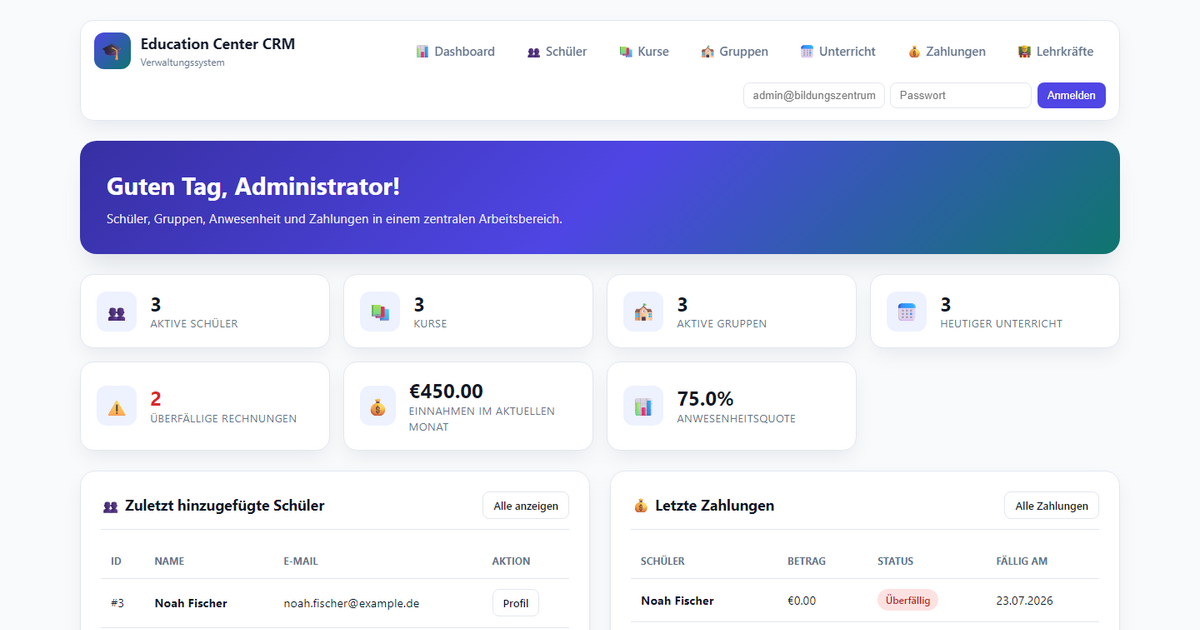
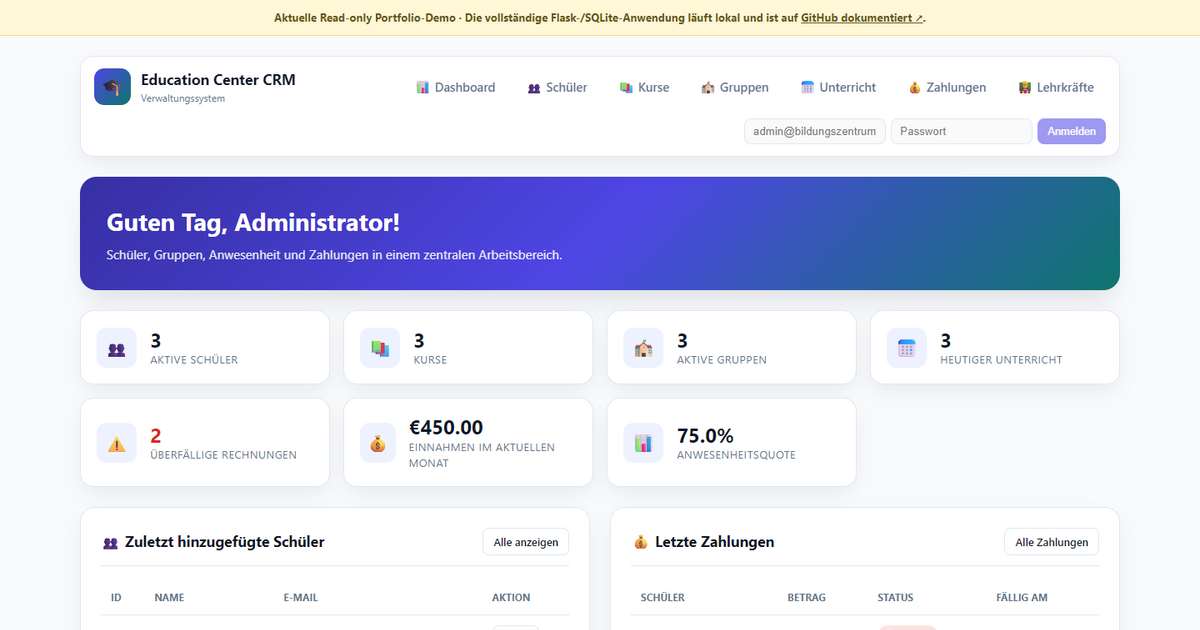
Finalize portfolio v1.0

diff --git a/index.html b/index.html
@@ -4,7 +4,10 @@
   <meta charset="utf-8">
   <meta name="viewport" content="width=device-width, initial-scale=1">
   <meta name="description" content="Sandro Abashishvili entwickelt Webanwendungen, Dashboards, Automatisierungen und datenbasierte Systeme mit Python, JavaScript und APIs.">
-  <meta name="theme-color" content="#0d1815">
+  <meta name="color-scheme" content="light dark">
+  <meta name="theme-color" content="#f3f4ef" media="(prefers-color-scheme: light)">
+  <meta name="theme-color" content="#0b1210" media="(prefers-color-scheme: dark)">
+  <meta name="robots" content="index, follow, max-image-preview:large">
   <link rel="canonical" href="https://sandroabashishvili.github.io/">
   <meta property="og:title" content="Sandro Abashishvili – Softwareentwickler">
   <meta property="og:description" content="Webanwendungen, Dashboards, Automatisierungen und datenbasierte Systeme mit praktischem Nutzen.">
@@ -23,6 +26,47 @@
   <meta name="twitter:description" content="Webanwendungen, Dashboards, Automatisierungen und datenbasierte Systeme mit praktischem Nutzen.">
   <meta name="twitter:image" content="https://sandroabashishvili.github.io/assets/sandro-abashishvili-social-card-v2.png">
   <meta name="twitter:image:alt" content="Sandro Abashishvili – Technisch orientierter Softwareentwickler">
+  <script type="application/ld+json">
+  {
+    "@context": "https://schema.org",
+    "@graph": [
+      {
+        "@type": "Person",
+        "@id": "https://sandroabashishvili.github.io/#person",
+        "name": "Sandro Abashishvili",
+        "url": "https://sandroabashishvili.github.io/",
+        "jobTitle": "Softwareentwickler",
+        "homeLocation": {
+          "@type": "Place",
+          "name": "Kassel, Deutschland"
+        },
+        "sameAs": [
+          "https://github.com/sandroabashishvili",
+          "https://www.linkedin.com/in/aleksandre-abashishvili-03417617a/"
+        ],
+        "knowsAbout": [
+          "Python",
+          "JavaScript",
+          "Webanwendungen",
+          "Dashboards",
+          "Automatisierung",
+          "Datenverarbeitung",
+          "APIs"
+        ]
+      },
+      {
+        "@type": "WebSite",
+        "@id": "https://sandroabashishvili.github.io/#website",
+        "url": "https://sandroabashishvili.github.io/",
+        "name": "Sandro Abashishvili – Portfolio",
+        "inLanguage": "de-DE",
+        "author": {
+          "@id": "https://sandroabashishvili.github.io/#person"
+        }
+      }
+    ]
+  }
+  </script>
   <title>Sandro Abashishvili – Softwareentwickler</title>
   <link rel="icon" href="assets/favicon.svg" type="image/svg+xml">
   <link rel="stylesheet" href="assets/styles.css">
@@ -56,7 +100,7 @@
         </p>
         <p class="availability">
           <span aria-hidden="true"></span>
-          <span class="availability-text">Offen für Vollzeitstellen, Start-up-Teams, technische Zusammenarbeit und ausgewählte Projekte.</span>
+          <span class="availability-text">Offen für technische Zusammenarbeit, interessante Softwareprojekte und passende berufliche Möglichkeiten.</span>
         </p>
         <div class="actions">
           <a class="button primary" href="#projekte">Projekte ansehen</a>
@@ -101,9 +145,8 @@
           Erfahrung in eigenen Web- und Softwareprojekten ein.
         </p>
         <p>
-          Ich beginne technisch nicht bei null: Ich entwickle funktionierende Lösungen,
-          lerne neue Systeme schnell und kennzeichne MVPs, Simulationen und laufende
-          Projekte transparent.
+          Ich entwickle funktionierende Lösungen, arbeite mich schnell in neue Systeme
+          ein und dokumentiere den Entwicklungsstand meiner Projekte transparent.
         </p>
         <a class="text-link" href="assets/Sandro-Abashishvili-Lebenslauf-IT-2026.pdf" target="_blank" rel="noopener noreferrer">Vollständigen Lebenslauf ansehen ↗</a>
       </div>
@@ -142,19 +185,19 @@
     <section class="section projects" id="projekte">
       <div class="section-heading compact">
         <p class="kicker">Schwerpunktprojekte</p>
-        <h2>Vier Projekte, vier reale Anwendungsfälle.</h2>
+        <h2>Vier Projekte, vier praxisnahe Anwendungsfälle.</h2>
         <p>Jeder Status beschreibt ehrlich, wie weit das jeweilige Projekt entwickelt ist.</p>
       </div>
 
       <div class="project-grid">
         <article class="project-card featured">
           <a class="project-image" href="https://sandroabashishvili.github.io/Bitcoin-Live-Signals/" target="_blank" rel="noopener noreferrer" aria-label="SmartSignalHub öffnen">
-            <img src="assets/projects/smartsignalhub.png" alt="SmartSignalHub – Bitcoin-Signale und Analyseplattform">
+            <img src="assets/projects/smartsignalhub.png" alt="SmartSignalHub – Bitcoin-Marktanalyse und Simulationsplattform">
           </a>
           <div class="project-content">
             <div class="project-status"><span>Analyseplattform · Python</span><b>LANGZEITPROJEKT</b></div>
             <h3>SmartSignalHub</h3>
-            <p>Mein umfangreichstes Entwicklungsprojekt: eine modulare Plattform für Signale, Risikoprüfung, Simulation, Positionslogik, Dashboards und Systemdiagnostik.</p>
+            <p>Software- und Datenplattform für indikatorbasierte Bitcoin-Marktanalyse, simulierte Positionen sowie nachvollziehbare Entry-, Stop-Loss- und Take-Profit-Logik.</p>
             <div class="tags"><span>Python</span><span>Analytics</span><span>APIs</span><span>Systemarchitektur</span></div>
             <div class="project-actions">
               <a href="https://sandroabashishvili.github.io/Bitcoin-Live-Signals/" target="_blank" rel="noopener noreferrer">Live ansehen ↗</a>

diff --git a/assets/styles.css b/assets/styles.css
@@ -3,6 +3,7 @@
   --muted: #5b6661;
   --paper: #f3f4ef;
   --white: #ffffff;
+  --surface: #ffffff;
   --line: #d9ded9;
   --green: #174b3b;
   --dark: #0d1815;
@@ -413,7 +414,7 @@ h1 {
   padding: 26px;
   border: 1px solid var(--line);
   border-radius: var(--radius);
-  background: var(--white);
+  background: var(--surface);
 }
 
 .capabilities article > span {
@@ -451,7 +452,7 @@ h1 {
   flex-direction: column;
   border: 1px solid var(--line);
   border-radius: var(--radius);
-  background: var(--white);
+  background: var(--surface);
   box-shadow: 0 1px 0 rgb(16 23 20 / 2%);
 }
 
@@ -880,6 +881,70 @@ footer a {
 
   .footer-profile-links {
     justify-content: flex-start;
+  }
+}
+
+
+@media (prefers-color-scheme: dark) {
+  :root {
+    color-scheme: dark;
+    --ink: #edf5f1;
+    --muted: #a8b6af;
+    --paper: #0b1210;
+    --surface: #121c18;
+    --line: #2b3933;
+    --green: #61caa1;
+    --dark: #07100d;
+    --shadow: 0 18px 48px rgb(0 0 0 / 28%);
+  }
+
+  .topbar {
+    border-bottom-color: rgb(255 255 255 / 8%);
+    background: rgb(11 18 16 / 90%);
+  }
+
+  .brand span {
+    background: var(--lime);
+    color: #101714;
+  }
+
+  .nav-cv {
+    border-color: var(--mint);
+    color: var(--mint);
+  }
+
+  .nav-cv:hover {
+    background: var(--mint);
+    color: #07100d;
+  }
+
+  .eyebrow,
+  .kicker,
+  .text-link,
+  .project-actions a,
+  .project-status b {
+    color: var(--mint);
+  }
+
+  .profile-facts div {
+    background: rgb(255 255 255 / 4%);
+  }
+
+  .project-card.featured {
+    border-color: rgb(141 224 187 / 38%);
+  }
+
+  .project-image {
+    background: #16231e;
+  }
+
+  .project-list a:hover strong,
+  .footer-profile-links a:hover {
+    color: var(--mint);
+  }
+
+  .contact {
+    background: #123d31;
   }
 }
 

diff --git a/README.md b/README.md
@@ -28,6 +28,15 @@ http://127.0.0.1:8090/
 - `assets/styles.css` — vollständiges responsives Design
 - `assets/navigation.js` — Navigation und Header-Verhalten
 - `assets/` — Design, Bilder, Navigation und Lebenslauf
+- `robots.txt` und `sitemap.xml` — Suchmaschinensteuerung und Indexierung
+
+## Qualität und Veröffentlichung
+
+- automatische helle und dunkle Darstellung über die Systemeinstellung
+- responsive Layouts für Desktop, Tablet und Smartphone
+- Canonical URL, Open Graph, Twitter Card und strukturierte Person-/Website-Daten
+- Social-Share-Bild im Format 1200 × 630 Pixel
+- GitHub Pages als Veröffentlichungsziel
 
 Die Projektdemos werden unabhängig über ihre jeweiligen GitHub-Pages-Repositories
 veröffentlicht und von der Portfolio-Seite aus verlinkt.
